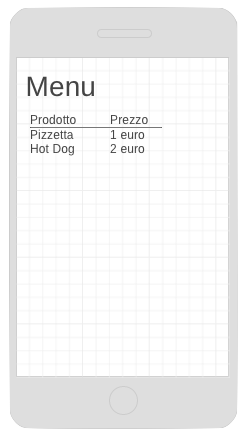
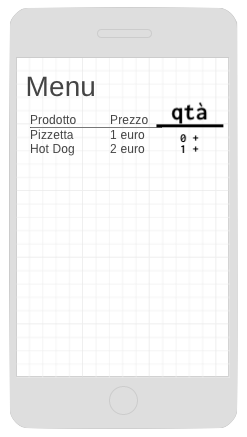
Add the quantity column and firebase support.
The quantity will be updated in real time with firebase nosql database.

Changed region(s): [[0.6235, 0.238, 0.9069, 0.357]]

diff --git a/code/app.js b/code/app.js
@@ -1,30 +1,65 @@
 var app = {
+    baseURL: "https://marconi-bar.firebaseio.com/bar-prof",
+    productList: {},
     init: function () {
         console.log("init inside app!");
         $("title").text("Bar prof");
-        $.getJSON("data.php")
-            .done(app.onSuccess)
-            .fail(app.onError);
-
+        // Get the product list from the database
+        app.getProductList();
+    },
+    getProductList: function() {
+        // make a HTTP GET request
+        $.getJSON(`${app.baseURL}.json`)
+        .done(app.onSuccess)
+        .fail(app.onError);
     },
     onSuccess: function (jsonData) {
         console.log(jsonData);
-        jsonData.productList.forEach(element => {
+        // Delete the current table
+        $("#menu-table-body").html("");
+        // save data in a local variable
+        app.productList = jsonData.productList;
+        // update the list
+        // for each element, get both the object (element) and its index (idx) in the list
+        // create a different data-id attribute for each plus button
+        app.productList.forEach((element, idx) => {
             let productRow = `<div class="menu-table-row">
             <div class="menu-table-cell">${element.product}</div>
             <div class="menu-table-cell">${element.price} euro</div>
+            <div class="menu-table-cell">${element.quantity} <span data-id="${idx}" class="add-button">+</span></div>
             </div>`;
-            $("#menu-table").append(productRow);
+            $("#menu-table-body").append(productRow);
         });
-
+        // associate the event to each plus button
+        $(".add-button").on("click", app.addQuantityByOne);
+        // set the cursor as pointer
+        $(".add-button").css("cursor", "pointer");
     },
-
+    addQuantityByOne: function () {
+        // get the "data-id" attribute with the "data" function of jquery
+        let id = $(this).data("id");
+        // create the json body for the PUT request
+        var jsonData = JSON.stringify(app.productList[id].quantity+1);
+        // compose the full URL for the request
+        var fullURL = app.baseURL + '/productList/' + id + '/quantity.json';
+        // make the HTTP PUT request
+        $.ajax({
+            type: "PUT",
+            url: fullURL,
+            contentType: "application/json",
+            data: jsonData
+        }).done(app.onPutSuccess).fail(app.onError);
+    },
+    onPutSuccess: function(responseBody) {
+        console.log('On PUT success:');
+        console.log(responseBody);
+        // refresh the list
+        app.getProductList();
+    },
     onError: function (e) {
         console.log("error!");
         console.log(JSON.stringify(e));
     }
 };
-
-
 
 $(document).ready(app.init);

diff --git a/code/index.html b/code/index.html
@@ -15,8 +15,13 @@
     <h1>Menu</h1>
     <div id="menu-table">
         <div class="menu-table-row">
-            <div class="menu-table-header-cell">Prodotto</div>
-            <div class="menu-table-header-cell">Prezzo</div>
+            <div id="menu-table-header">
+                <div class="menu-table-header-cell">Prodotto</div>
+                <div class="menu-table-header-cell">Prezzo</div>
+                <div class="menu-table-header-cell">qtà</div>
+            </div>
+            <div id="menu-table-body">
+            </div>
         </div>
     </div>
 </body>

diff --git a/code/style.css b/code/style.css
@@ -10,5 +10,5 @@
 
 .menu-table-cell,.menu-table-header-cell {
   float: left;
-  width: 50%;
+  width: 33%;
 }
